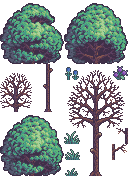
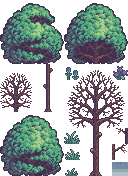
v3 of animated tiles (added waterfalls)

Changed region(s): [[0.875, 0.9091, 1.0, 1.0]]

diff --git a/src/levels/LevelManager.java b/src/levels/LevelManager.java
@@ -23,11 +23,10 @@ import static game.Game.*;
  **/
 public class LevelManager {
 
-	// Level Data
 	private final Game game;
 	private final Map<LevelStyle, BufferedImage[]> backgrounds;
 	private final Map<LevelStyle, Image[]> foregroundTiles;
-	private Image[] midGroundTiles, floraTiles, decorTiles;
+	public Image[] midGroundTiles, floraTiles, decorTiles;
 	private Level currentLevel;
 
 	public int MAX_TILES_PER_SHEET;
@@ -65,6 +64,8 @@ public class LevelManager {
 	 * @throws IOException If the image could not be accessed/found.
 	 */
 	public void loadAllLevelResources() throws IOException {
+		final String TILE_DIRECTORY = RESOURCE_URL + "tiles/";
+
 		for(LevelStyle style : LevelStyle.values()) {
 			// Load background
 			String backgroundDirectory = Game.RESOURCE_URL + "backgrounds/" + style.getName() + "/";
@@ -78,7 +79,6 @@ public class LevelManager {
 			});
 
 			// Load tiles
-			final String TILE_DIRECTORY = RESOURCE_URL + "tiles/";
 			BufferedImage tileSheet = ImageIO.read(new File(TILE_DIRECTORY + style.getFileName()));
 			MAX_TILES_PER_SHEET = (tileSheet.getWidth() / TILES_DEFAULT_SIZE) * (tileSheet.getHeight() / TILES_DEFAULT_SIZE);
 			foregroundTiles.put(style, importTiles(tileSheet));
@@ -87,15 +87,17 @@ public class LevelManager {
 			floraTiles = importTiles(ImageIO.read(new File(TILE_DIRECTORY + "flora.png")));
 		}
 
-		animations.put(LevelLayer.ITEMS, new TileAnimations(new String[]{
-				"gold",
-				"diamond" },
-				new int[]{ 110, 25 }));
-		animations.put(LevelLayer.WATER, new TileAnimations(new String[]{
-				"water/some_bubbles",
-				"water/many_bubbles",
-				"water/no_bubbles" },
-				new int[]{ 125, 100, 150 }));
+		animations.put(LevelLayer.ITEMS, new TileAnimations(ImageIO.read(new File(TILE_DIRECTORY + "items.png")), 4,
+				new int[] {110, 															// gold
+										25 																// diamond
+		}));
+		animations.put(LevelLayer.WATER, new TileAnimations(ImageIO.read(new File(TILE_DIRECTORY + "water.png")), 4,
+				new int[] {150, 125, 100, 										// still, some, many bubbles
+						       95,           											// main water flow
+						       22, 22, 22, 22, 22, 22, 22, 				// water fall lush rock
+									 22, 22, 22, 22, 22, 								// split water, split water crash, water crack, water leak, water leak crash
+						       22, 22, 22, 22, 22, 22, 22, 				// water fall dry rock
+						       0, 0}));
 	}
 
 	/**
@@ -170,7 +172,7 @@ public class LevelManager {
 	 */
 	private Image getForegroundTile(LevelStyle style, int index) {
 		Image[] images = foregroundTiles.getOrDefault(style, null);
-		if(images == null || (index >= images.length - 1))return null;
+		if(images == null || (index >= images.length))return null;
 		return images[index];
 	}
 
@@ -182,7 +184,7 @@ public class LevelManager {
 	 * @return An image object, if it exists.
 	 */
 	private Image getMidGroundTile(int index) {
-		if(index >= midGroundTiles.length - 1)return null;
+		if(index >= midGroundTiles.length)return null;
 		return midGroundTiles[index];
 	}
 
@@ -194,7 +196,7 @@ public class LevelManager {
 	 * @return An image object, if it exists.
 	 */
 	private Image getFloraTile(int index) {
-		if(index >= floraTiles.length - 1)return null;
+		if(index >= floraTiles.length)return null;
 		return floraTiles[index];
 	}
 
@@ -206,7 +208,7 @@ public class LevelManager {
 	 * @return An image object, if it exists.
 	 */
 	private Image getDecorTile(int index) {
-		if(index >= decorTiles.length - 1)return null;
+		if(index >= decorTiles.length)return null;
 		return decorTiles[index];
 	}
 
@@ -295,19 +297,26 @@ public class LevelManager {
 
 	class TileAnimations {
 
-		String[] files;
-		int[] durations;
-
 		Map<Integer, Animation> animations;
 
-		public TileAnimations(String[] files, int[] durations) {
-			this.files = files;
-			this.durations = durations;
+		/**
+		 * Used to initialize animated tile sheets.
+		 *
+		 * @param sprite  	The sprite that will be cut into different animations.
+		 * @param count   	The number of images per animation.
+		 * @param duration 	An array of durations for each animation.
+		 */
+		public TileAnimations(BufferedImage sprite, int count, int[] duration) {
 			this.animations = new HashMap<>();
 
-			for(int i = 0; i < files.length; i++) {
-				Animation animation = new Animation("tiles/animations/" + files[i], TILES_DEFAULT_SIZE, durations[i]);
-				animations.put(i * animation.getImages().length, animation);
+			Image[] allAnimations = importTiles(sprite);
+
+			for(int i = 0; i < allAnimations.length; i += count) {
+				Image[] groupedAnimations = new Image[count];
+				System.arraycopy(allAnimations, i, groupedAnimations, 0, count);
+				Animation animation = new Animation(groupedAnimations, duration[animations.size()]);
+				int index = animations.size() * animation.getImages().length;
+				animations.put(index, animation);
 			}
 		}
 

diff --git a/src/sprites/Animation.java b/src/sprites/Animation.java
@@ -15,7 +15,8 @@ import java.io.IOException;
 public class Animation {
 
 	private Image[] images;
-	private final int size, duration;
+	private int size;
+	private final int duration;
 	private int current, delay;
 	private boolean cycleCompleted;
 
@@ -25,10 +26,16 @@ public class Animation {
 		delay = duration;
 
 		try {
-			loadImages(name);
+			images = loadImages(name);
 		} catch (IOException e) {
 			e.printStackTrace();
 		}
+	}
+
+	public Animation(Image[] images, int duration) {
+		this.images = images;
+		this.duration = duration;
+		delay = duration;
 	}
 
 	/**
@@ -46,14 +53,14 @@ public class Animation {
 	 * @param name The filePath for the animation sprite.
 	 * @throws IOException If the file cannot be accessed/found.
 	 */
-	public void loadImages(String name) throws IOException {
+	public Image[] loadImages(String name) throws IOException {
 		BufferedImage sprite = ImageIO.read(new File(Game.RESOURCE_URL + name + ".png"));
 		final int WIDTH = sprite.getWidth() / size;
-		images = new Image[WIDTH];
+		Image[] images = new Image[WIDTH];
 
 		for(int i = 0; i < WIDTH; i++)
 			images[i] = sprite.getSubimage(i * size, 0, size, size);
-
+		return images;
 	}
 
 	/**

diff --git a/src/levels/Level.java b/src/levels/Level.java
@@ -3,8 +3,11 @@ package levels;
 import game.Game;
 import sprites.Animation;
 
+import javax.imageio.ImageIO;
 import java.awt.*;
 import java.awt.image.BufferedImage;
+import java.io.File;
+import java.io.IOException;
 import java.util.Map;
 import java.util.concurrent.ThreadLocalRandom;
 
@@ -56,7 +59,6 @@ public class Level {
 	 * @param g The graphics context.
 	 */
 	public void draw(Graphics g) {
-
 		// Background
 		g.drawImage(background, 0, 0, GAME_WIDTH, GAME_HEIGHT, null);
 		for(int i = 0; i < 3; i++) {
@@ -87,8 +89,8 @@ public class Level {
 				int index = getTileIndex(layer, w, h);
 				if(index < 0)continue;
 				Image image = levelManager.getTile(style, layer, index);
-				if(image == null) continue;
 				Animation animation = levelManager.getTileAnimation(layer, index);
+				if(image == null && animation == null) continue;
 				g.drawImage(animation != null ? animation.getCurrentImage() : image, x, y, TILES_SIZE, TILES_SIZE, null);
 			}
 		}

diff --git a/src/levels/LevelLayer.java b/src/levels/LevelLayer.java
@@ -10,8 +10,8 @@ public enum LevelLayer {
 	DECOR,
 	ITEMS,
 	FLORA(true),
-	WATER,
-	FOREGROUND;
+	FOREGROUND,
+	WATER;
 
 	private final boolean entityDrawnHere;
 
